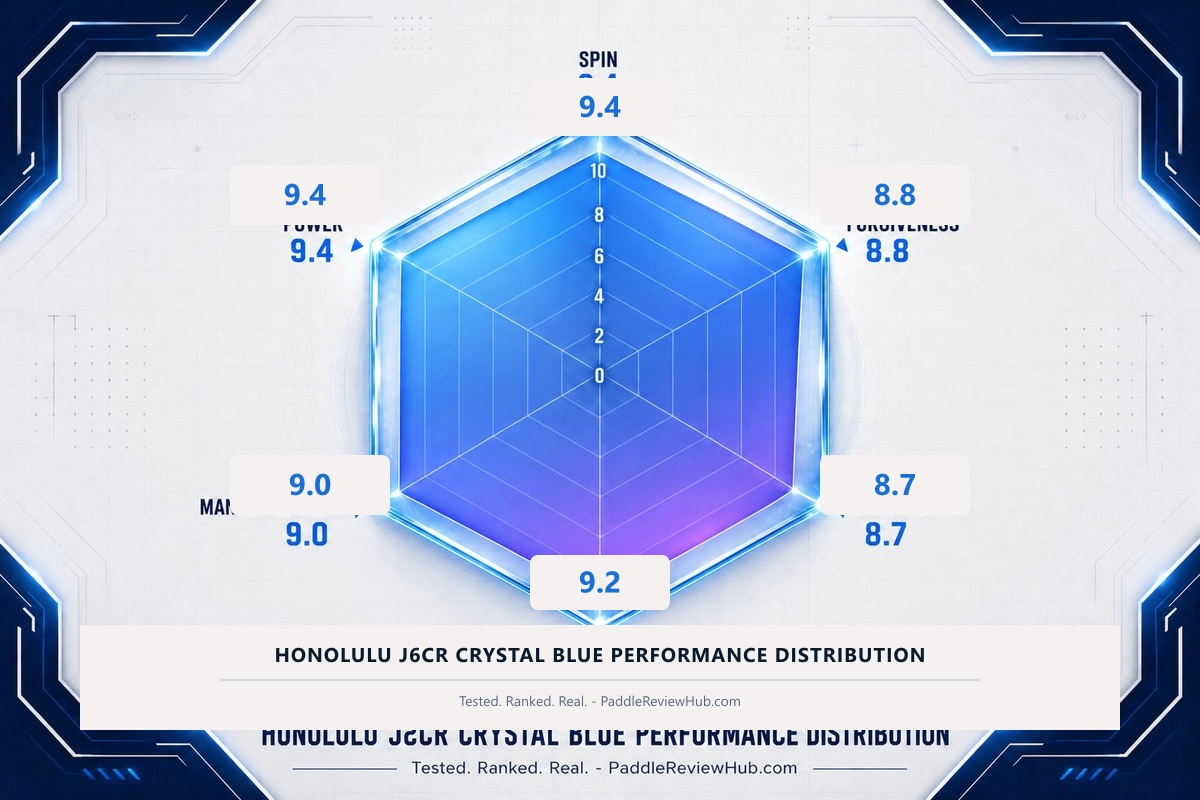
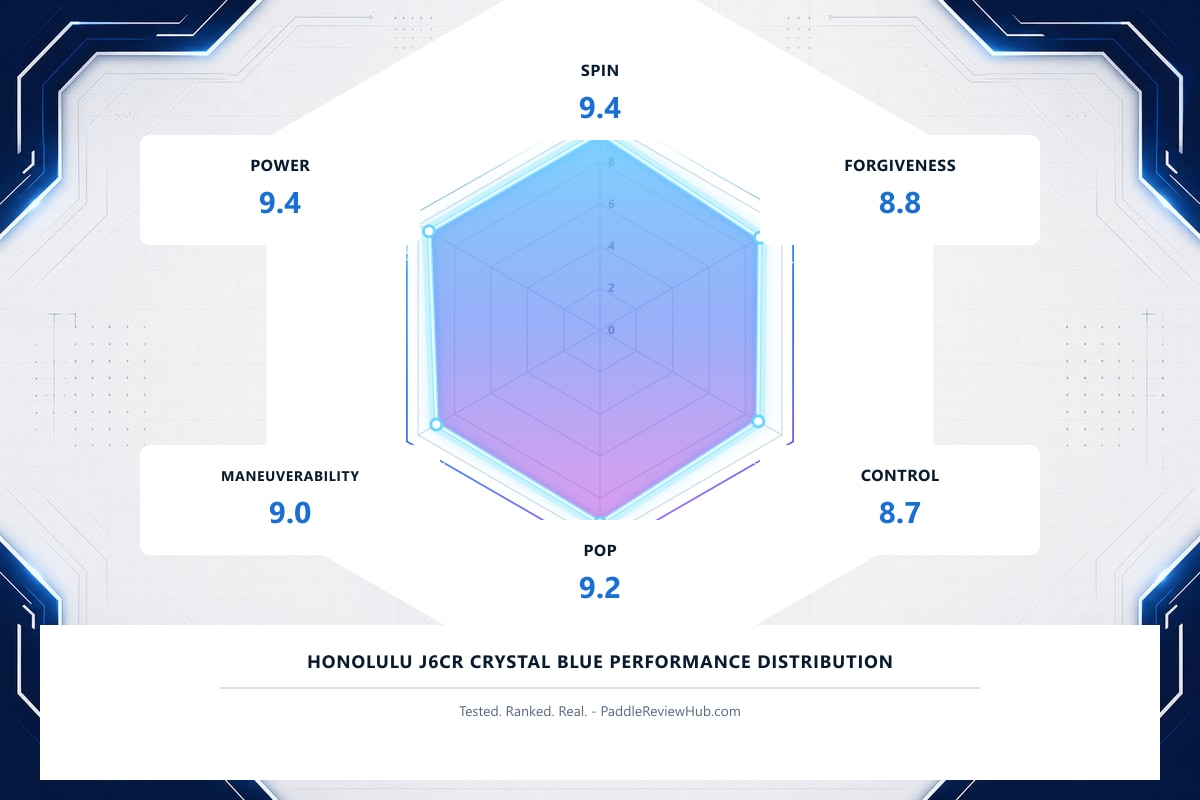
Fix overlapping radar scores and titles on all paddles.
Wipe label ring and footer from the clean J2CR template before drawing a single text layer.

diff --git a/scripts/stamp-radar-from-ai.ts b/scripts/stamp-radar-from-ai.ts
@@ -1,5 +1,6 @@
 /**
- * 以 J2CR 風格 AI 圖為底板（質感與四角一致），再蓋上正確分數與標題。
+ * 以乾淨的 J2CR 原圖為唯一底板（避免 AI 圖殘留雙重文字），
+ * 覆蓋舊分數／標題後只寫一組，並依分數重畫中心多邊形。
  * 用法：npx tsx scripts/stamp-radar-from-ai.ts
  */
 import fs from "node:fs";
@@ -15,11 +16,8 @@ type Scores = {
   power: number;
 };
 
-const ASSETS = path.join(
-  process.env.USERPROFILE || "",
-  ".cursor/projects/c-Users-user-PickleballWeb/assets",
-);
 const OUT = path.join(process.cwd(), "public", "paddles");
+const TEMPLATE = path.join(OUT, "honolulu-j2cr-crystal-blue-radar.jpg");
 
 const AXES = [
   "spin",
@@ -28,6 +26,15 @@ const AXES = [
   "pop",
   "maneuverability",
   "power",
+] as const;
+
+const AXIS_LABELS = [
+  "SPIN",
+  "FORGIVENESS",
+  "CONTROL",
+  "POP",
+  "MANEUVERABILITY",
+  "POWER",
 ] as const;
 
 function fmt(n: number) {
@@ -42,58 +49,141 @@ function escapeXml(s: string) {
     .replace(/"/g, "&quot;");
 }
 
-/** 大面積覆蓋舊分數（AI 圖常殘留 J2CR 的 9.x） */
-const SCORE_BOXES = [
-  { x: 530, y: 78, w: 140, h: 58 }, // SPIN
-  { x: 820, y: 165, w: 150, h: 60 }, // FORGIVENESS
-  { x: 820, y: 455, w: 150, h: 60 }, // CONTROL
-  { x: 530, y: 555, w: 140, h: 55 }, // POP
-  { x: 230, y: 455, w: 160, h: 60 }, // MANEUVERABILITY
-  { x: 230, y: 165, w: 150, h: 60 }, // POWER
+function polar(cx: number, cy: number, r: number, angleDeg: number) {
+  const a = ((angleDeg - 90) * Math.PI) / 180;
+  return { x: cx + r * Math.cos(a), y: cy + r * Math.sin(a) };
+}
+
+function hexPoints(cx: number, cy: number, r: number) {
+  return AXES.map((_, i) => {
+    const p = polar(cx, cy, r, i * 60);
+    return `${p.x.toFixed(2)},${p.y.toFixed(2)}`;
+  }).join(" ");
+}
+
+function dataPolygon(cx: number, cy: number, maxR: number, scores: Scores) {
+  return AXES.map((key, i) => {
+    const v = scores[key];
+    const p = polar(cx, cy, (Math.min(10, Math.max(0, v)) / 10) * maxR, i * 60);
+    return `${p.x.toFixed(2)},${p.y.toFixed(2)}`;
+  }).join(" ");
+}
+
+function hexPath(cx: number, cy: number, r: number) {
+  return (
+    AXES.map((_, i) => {
+      const p = polar(cx, cy, r, i * 60);
+      return `${i === 0 ? "M" : "L"}${p.x.toFixed(1)},${p.y.toFixed(1)}`;
+    }).join(" ") + "Z"
+  );
+}
+
+/** 蓋掉 J2CR 原圖上的標籤＋分數＋三角標 */
+const AXIS_CARDS: {
+  label: string;
+  x: number;
+  y: number;
+  w: number;
+  h: number;
+}[] = [
+  { label: "SPIN", x: 480, y: 40, w: 240, h: 100 },
+  { label: "FORGIVENESS", x: 760, y: 135, w: 280, h: 110 },
+  { label: "CONTROL", x: 760, y: 445, w: 280, h: 110 },
+  { label: "POP", x: 480, y: 520, w: 240, h: 90 },
+  { label: "MANEUVERABILITY", x: 140, y: 445, w: 300, h: 110 },
+  { label: "POWER", x: 140, y: 135, w: 280, h: 110 },
 ];
 
+const GEO = { cx: 600, cy: 330, maxR: 210 };
+
 function stampSvg(title: string, credit: string, scores: Scores) {
-  const bg = "#f4f1f0";
+  const bg = "#ffffff";
+  const { cx, cy, maxR } = GEO;
   const vals = AXES.map((k) => scores[k]);
-  const scoreLayer = SCORE_BOXES.map((b, i) => {
-    const tx = b.x + b.w / 2;
-    const ty = b.y + b.h / 2 + 10;
-    return `<rect x="${b.x}" y="${b.y}" width="${b.w}" height="${b.h}" rx="8" fill="${bg}"/>
-    <text x="${tx}" y="${ty}" text-anchor="middle" fill="#1a6fd4" font-size="30" font-weight="800" font-family="Segoe UI, Helvetica, Arial, sans-serif">${fmt(vals[i])}</text>`;
+  const dataPts = dataPolygon(cx, cy, maxR, scores);
+  const eraseR = maxR + 12;
+
+  const rings = [2, 4, 6, 8, 10]
+    .map((n) => {
+      const r = (n / 10) * maxR;
+      return `<polygon points="${hexPoints(cx, cy, r)}" fill="none" stroke="#cfd9e6" stroke-width="1.2"/>
+      <text x="${cx + 8}" y="${(cy - r + 4).toFixed(1)}" fill="#7a8ea8" font-size="12" font-weight="700" font-family="Segoe UI, Helvetica, Arial, sans-serif">${n}</text>`;
+    })
+    .join("\n");
+
+  const spokes = AXES.map((_, i) => {
+    const p = polar(cx, cy, maxR, i * 60);
+    return `<line x1="${cx}" y1="${cy}" x2="${p.x.toFixed(2)}" y2="${p.y.toFixed(2)}" stroke="#c8d4e2" stroke-width="1.1"/>`;
   }).join("\n");
+
+  const scoreLayer = AXIS_CARDS.map((card, i) => {
+    const cardCx = card.x + card.w / 2;
+    const labelSize = card.label.length > 12 ? 14 : 16;
+    return `
+      <rect x="${card.x}" y="${card.y}" width="${card.w}" height="${card.h}" rx="10" fill="${bg}"/>
+      <text x="${cardCx}" y="${card.y + 36}" text-anchor="middle" fill="#0a1a2e" font-size="${labelSize}" font-weight="800" font-family="Segoe UI, Helvetica, Arial, sans-serif" letter-spacing="0.6">${AXIS_LABELS[i]}</text>
+      <text x="${cardCx}" y="${card.y + 78}" text-anchor="middle" fill="#1a6fd4" font-size="30" font-weight="800" font-family="Segoe UI, Helvetica, Arial, sans-serif">${fmt(vals[i])}</text>`;
+  }).join("\n");
+
+  const vertices = AXES.map((key, i) => {
+    const v = scores[key];
+    const p = polar(cx, cy, (Math.min(10, Math.max(0, v)) / 10) * maxR, i * 60);
+    return `<circle cx="${p.x.toFixed(2)}" cy="${p.y.toFixed(2)}" r="5.5" fill="#fff" stroke="#6ad4ff" stroke-width="2.8"/>`;
+  }).join("\n");
+
+  // 環狀清掉標籤區全部舊字（外 hex 減內 hex）
+  const labelRing = `<path fill-rule="evenodd" fill="${bg}" d="${hexPath(cx, cy, 385)} ${hexPath(cx, cy, eraseR + 2)}"/>`;
 
   return `<?xml version="1.0" encoding="UTF-8"?>
 <svg xmlns="http://www.w3.org/2000/svg" width="1200" height="800" viewBox="0 0 1200 800">
+  <defs>
+    <linearGradient id="fillGrad" x1="0%" y1="0%" x2="0%" y2="100%">
+      <stop offset="0%" stop-color="#5ec8ff" stop-opacity="0.8"/>
+      <stop offset="50%" stop-color="#5b7ef5" stop-opacity="0.62"/>
+      <stop offset="100%" stop-color="#c24ee0" stop-opacity="0.55"/>
+    </linearGradient>
+    <filter id="glow" x="-40%" y="-40%" width="180%" height="180%">
+      <feGaussianBlur stdDeviation="7" result="b"/>
+      <feFlood flood-color="#6ad4ff" flood-opacity="0.75" result="c"/>
+      <feComposite in="c" in2="b" operator="in" result="g"/>
+      <feMerge><feMergeNode in="g"/><feMergeNode in="SourceGraphic"/></feMerge>
+    </filter>
+  </defs>
+  <!-- 清掉原多邊形 -->
+  <polygon points="${hexPoints(cx, cy, eraseR)}" fill="${bg}"/>
+  ${rings}
+  ${spokes}
+  <text x="${cx + 8}" y="${cy + 4}" fill="#7a8ea8" font-size="12" font-weight="700" font-family="Segoe UI, Helvetica, Arial, sans-serif">0</text>
+  <polygon points="${dataPts}" fill="none" stroke="#7adfff" stroke-width="14" opacity="0.4" filter="url(#glow)"/>
+  <polygon points="${dataPts}" fill="url(#fillGrad)" stroke="#9aecff" stroke-width="5"/>
+  <polygon points="${dataPts}" fill="none" stroke="#ffffff" stroke-width="2" opacity="0.9"/>
+  ${vertices}
+  ${labelRing}
   ${scoreLayer}
-  <rect x="80" y="625" width="1040" height="105" fill="${bg}"/>
-  <text x="600" y="662" text-anchor="middle" fill="#0a1a2e" font-size="20" font-weight="800" font-family="Segoe UI, Helvetica, Arial, sans-serif" letter-spacing="1">${escapeXml(title)}</text>
-  <line x1="220" y1="680" x2="980" y2="680" stroke="#c5d0e0" stroke-width="1.3"/>
-  <text x="600" y="706" text-anchor="middle" fill="#5a6a80" font-size="14" font-family="Segoe UI, Helvetica, Arial, sans-serif">${escapeXml(credit)}</text>
+  <!-- 底部整塊清空（含原標題／副標／裝飾線） -->
+  <rect x="40" y="625" width="1120" height="155" fill="${bg}"/>
+  <text x="600" y="668" text-anchor="middle" fill="#0a1a2e" font-size="18" font-weight="800" font-family="Segoe UI, Helvetica, Arial, sans-serif" letter-spacing="0.9">${escapeXml(title)}</text>
+  <line x1="220" y1="688" x2="980" y2="688" stroke="#c5d0e0" stroke-width="1.3"/>
+  <text x="600" y="716" text-anchor="middle" fill="#5a6a80" font-size="14" font-family="Segoe UI, Helvetica, Arial, sans-serif">${escapeXml(credit)}</text>
 </svg>`;
-}
-
-async function loadBase(name: string) {
-  const p = path.join(ASSETS, name);
-  if (!fs.existsSync(p)) throw new Error(`缺少底板：${p}`);
-  return sharp(p)
-    .resize(1200, 800, { fit: "cover", position: "centre" })
-    .jpeg({ quality: 95 })
-    .toBuffer();
 }
 
 async function write(
   outName: string,
-  baseFile: string,
+  _unusedBase: string,
   title: string,
   credit: string,
   scores: Scores,
 ) {
-  const base = await loadBase(baseFile);
+  if (!fs.existsSync(TEMPLATE)) {
+    throw new Error(`缺少 J2CR 模板：${TEMPLATE}`);
+  }
   const overlay = await sharp(Buffer.from(stampSvg(title, credit, scores)))
     .png()
     .toBuffer();
   const dest = path.join(OUT, outName);
-  await sharp(base)
+  await sharp(TEMPLATE)
+    .resize(1200, 800, { fit: "fill" })
     .composite([{ input: overlay, top: 0, left: 0 }])
     .jpeg({ quality: 92, mozjpeg: true })
     .toFile(dest);
@@ -298,13 +388,7 @@ async function main() {
     },
   );
 
-  // cleanup calib
-  for (const f of ["_calib-boxes.jpg", "_tpl-luzz-inferno-radar.jpg"]) {
-    const p = path.join(OUT, f);
-    if (fs.existsSync(p)) fs.unlinkSync(p);
-  }
-
-  console.log("\nDone stamping all radars from J2CR-style bases.");
+  console.log("\nDone. All radars rebuilt from clean J2CR template (single text layer).");
 }
 
 main().catch((e) => {
